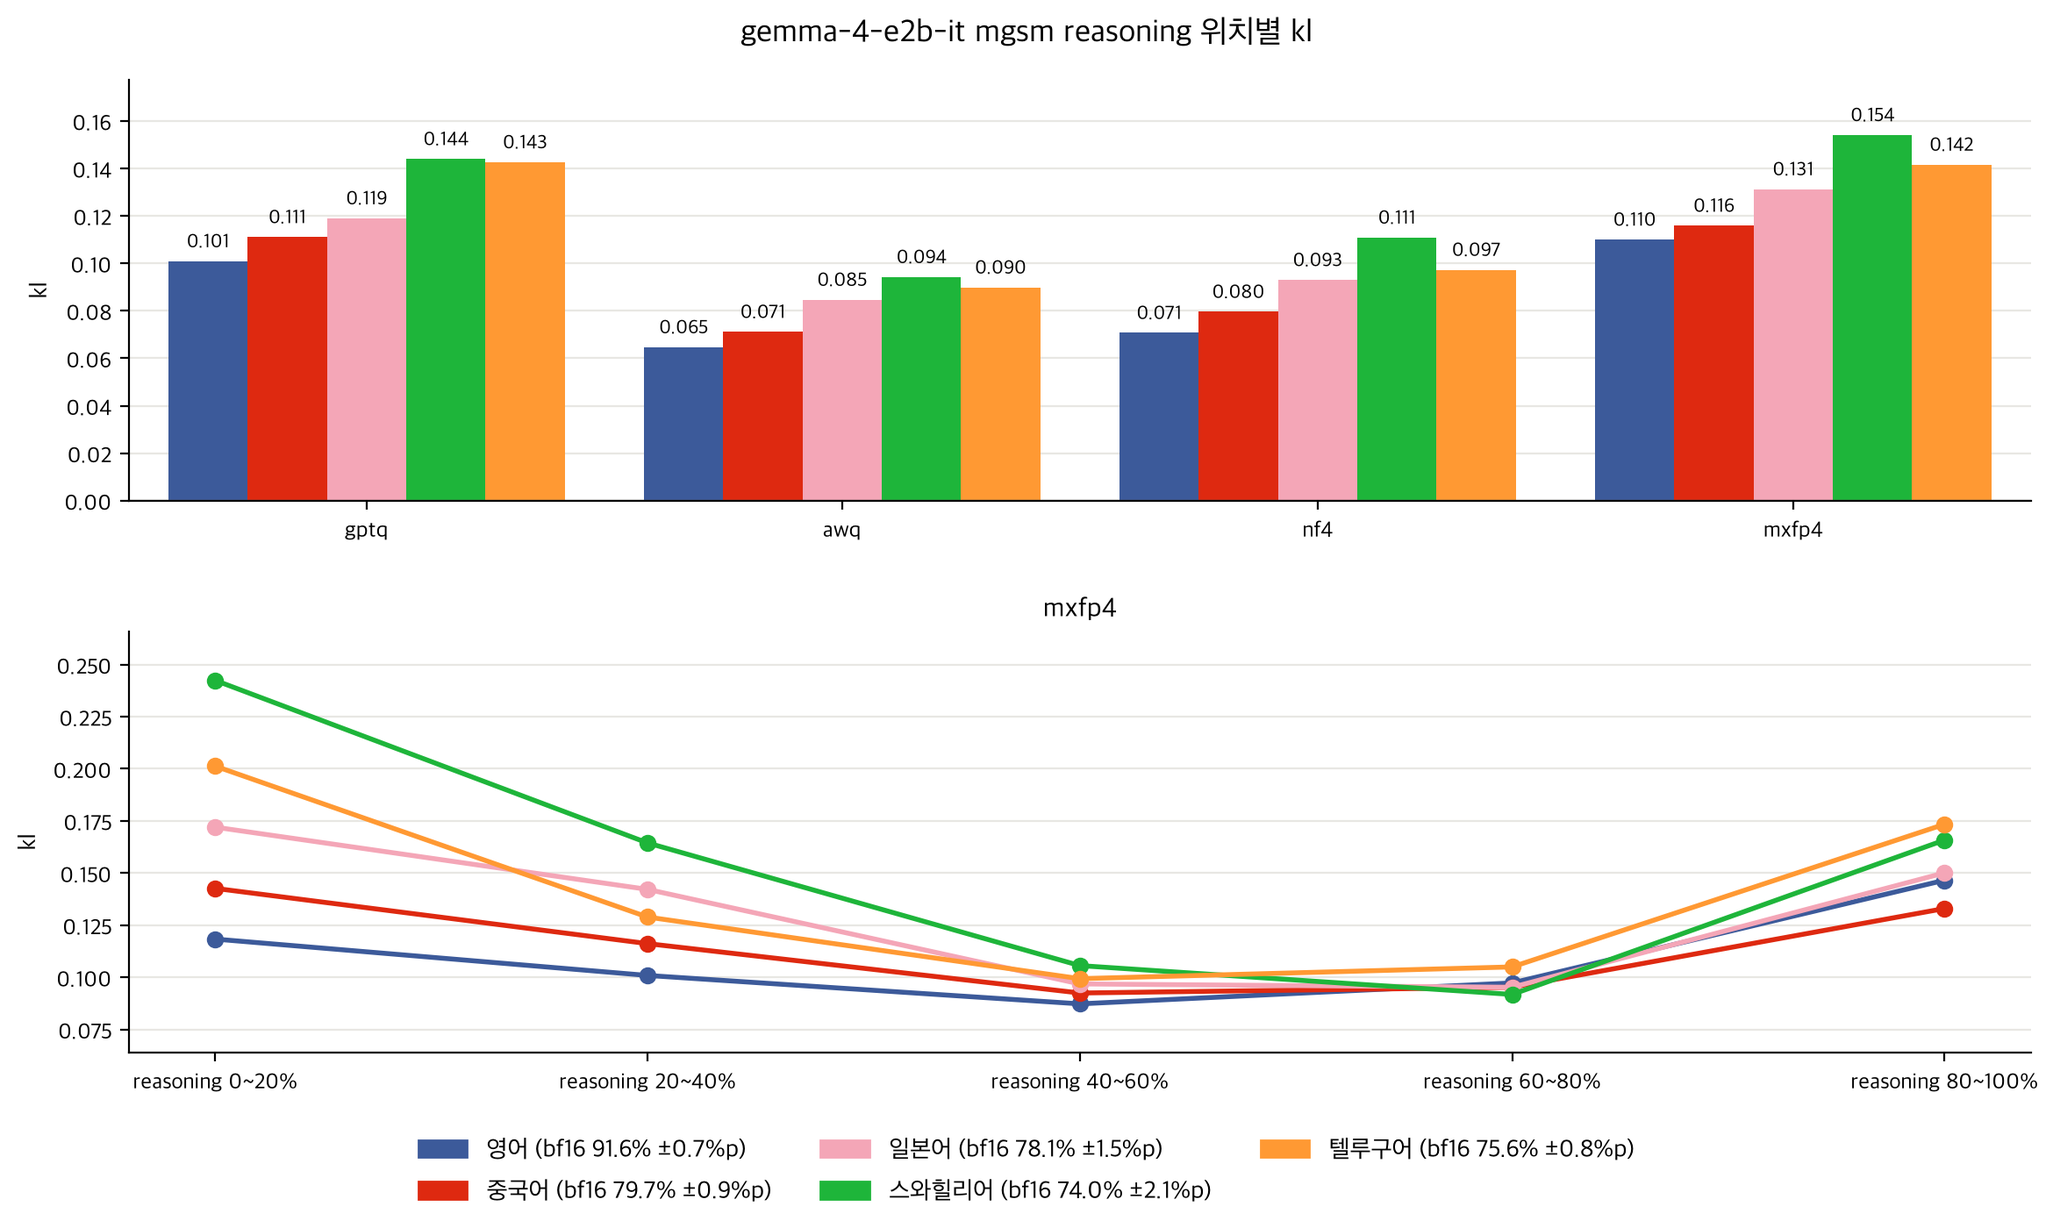
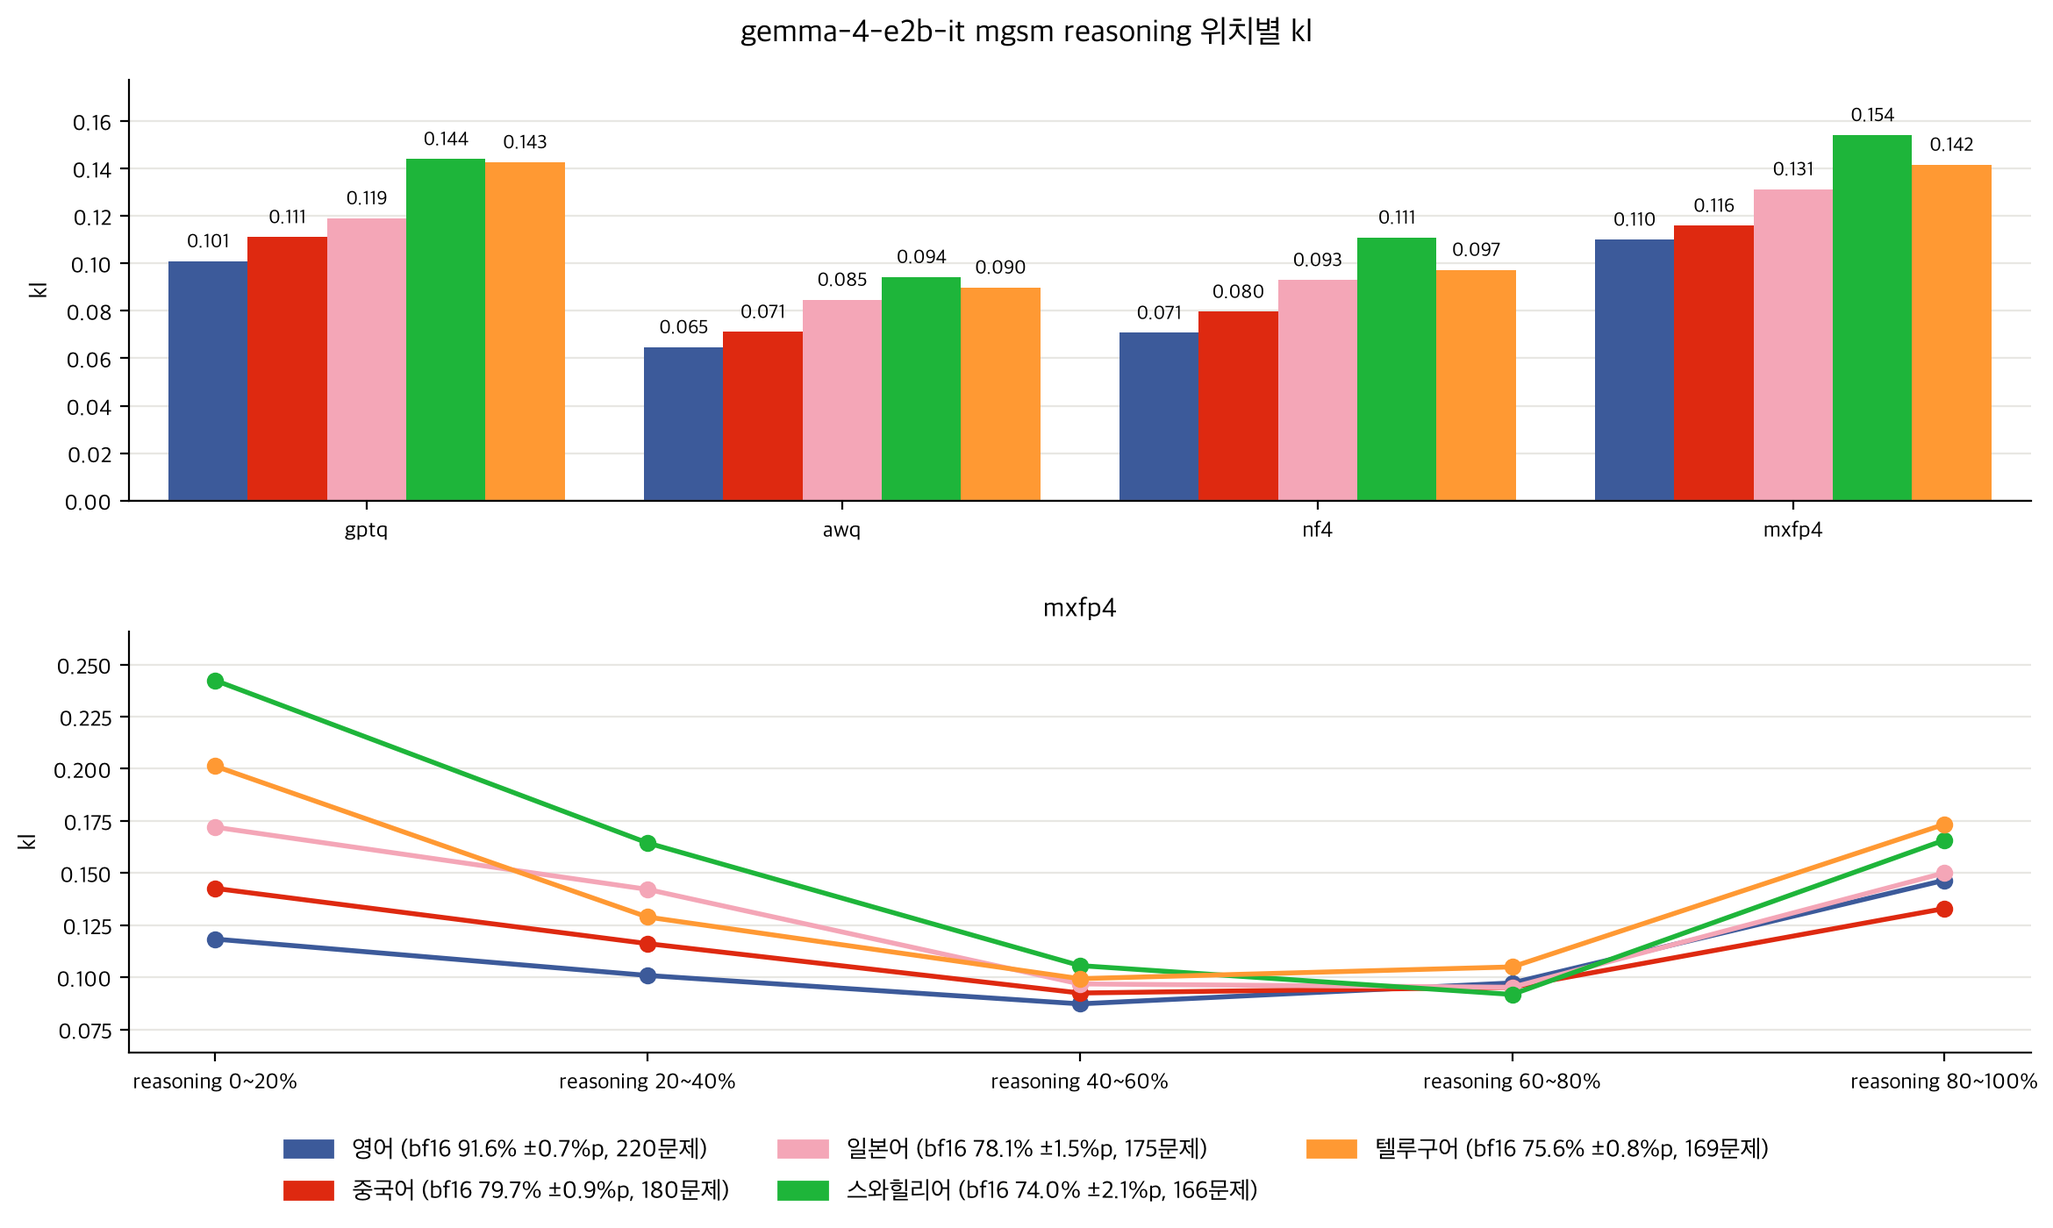
오류 유형 실험 추가

Changed region(s): [[0.1248, 0.9214, 0.8735, 0.9829]]

diff --git a/experiments/error_types.py b/experiments/error_types.py
@@ -1,0 +1,141 @@
+from dataclasses import dataclass
+import re
+import time
+from typing import Literal
+
+from simple_parsing import parse
+
+from utils.dataset import LANGUAGES, load_mgsm
+from utils.evaluation import generate_vllm, load_vllm, split_outputs
+from utils.format import format_duration
+from utils.hub import load_result, load_results, result_exists, save_result
+from utils.metrics import get_bf16_solved_mask
+from utils.paths import make_hub_path, make_result_name
+
+ERROR_TYPES = ["fact", "relation", "target", "doubt", "arithmetic", "other"]
+JUDGE_PROMPT = """A small model solved a math word problem and got it wrong. Find the first line where its reasoning goes wrong, and say what kind of error it is.
+
+Problem in English, which is the true meaning:
+{en_question}
+
+Problem as the model saw it:
+{question}
+
+Correct answer: {answer}
+
+Reasoning of a stronger model that got it right:
+<correct>
+{bf16_reasoning}
+</correct>
+
+Reasoning of the small model that got it wrong, with line numbers:
+<wrong>
+{numbered_reasoning}
+</wrong>
+
+Error types:
+- fact: states a number, unit, word or entity of the problem wrong (e.g. "runs 15 miles" becomes "runs 15 minutes")
+- relation: states a relation between quantities wrong (e.g. "4 more cats than dogs" becomes "4 cats")
+- target: solves for a different quantity than the one asked (e.g. problem asks how many are left, reasoning gives how many were used)
+- doubt: calls a given condition missing, ambiguous or irrelevant, and drops it (e.g. "the price per box is not given", though the problem gives it)
+- arithmetic: sets up the problem right, but computes wrong (e.g. "7 x 8 = 54")
+- other: none of the above
+
+End your answer with exactly these two lines (e.g. for a wrong relation on line 7):
+line: 7
+type: relation"""
+# qwen3.5-27b는 vllm 기본 sequence 수로는 메모리에 안 들어가기 때문에 제한
+JUDGE_MAX_NUM_SEQS = 256
+
+
+@dataclass
+class Config:
+    model_name: str = "google/gemma-4-E2B-it"
+    method: Literal["gptq", "awq", "nf4", "mxfp4"] = "mxfp4"
+    calibration_languages: tuple[Literal["en", "zh", "ja", "sw", "te"], ...] = ("en",)
+    num_bits: int = 4
+    group_size: int = 128
+    num_chunks: int = 128
+    # 판정 모델
+    judge_model_name: str = "Qwen/Qwen3.5-27B"
+    judge_max_generation_len: int = 16384
+    max_generation_len: int = 16384
+    seeds: tuple[int, ...] = (0, 1, 2)
+    bf16_seeds: tuple[int, ...] = (0, 1, 2)
+
+
+def get_mgsm_question(
+    prompt: str,
+) -> str:
+    # instruction과 question 사이 빈 줄로 나눠 question만 추출
+    # 예시) instruction + "\n\n" + question → question
+    return prompt.split("\n\n", 1)[1]
+
+
+def main() -> None:
+    config = parse(Config)
+    experiment_name = "error_types/mgsm"
+    hub_path = make_hub_path(config.method, config.model_name, config.calibration_languages, config.num_bits, config.group_size, config.num_chunks)
+    bf16_hub_path = make_hub_path("bf16", config.model_name)
+    file_names = {seed: make_result_name(config.max_generation_len, seed) for seed in config.seeds}
+
+    # 1. seed마다 hub result에서 빠진 것 확인, 빠진 것이 없으면 종료
+    missing_seeds = [seed for seed, file_name in file_names.items() if not result_exists(experiment_name, hub_path, file_name)]
+    if not missing_seeds:
+        print(f"{hub_path} already evaluated")
+        return
+    problems = load_mgsm(LANGUAGES)
+    bf16_results = load_results("mgsm", bf16_hub_path, config.max_generation_len, config.bf16_seeds)
+
+    # 2. 모든 bf16 seed가 맞힌 문제에서 양자화 모델이 틀린 reasoning 추출
+    problem_indices = {}
+    prompts = []
+    prompt_seeds = []
+    for seed in missing_seeds:
+        bf16_result = load_result("mgsm", bf16_hub_path, file_names[seed])
+        quantized_result = load_result("mgsm", hub_path, file_names[seed])
+        for language in LANGUAGES:
+            bf16_solved_mask = get_bf16_solved_mask(bf16_results, language)
+            problem_indices[seed, language] = [problem_index for problem_index, (solved, correct) in enumerate(zip(bf16_solved_mask, quantized_result[language]["corrects"])) if solved and not correct]
+            for problem_index in problem_indices[seed, language]:
+                prompt, answer = problems[language][problem_index]
+                reasoning = quantized_result[language]["reasonings"][problem_index]
+                prompts.append(JUDGE_PROMPT.format(
+                    en_question=get_mgsm_question(problems["en"][problem_index][0]),
+                    question=get_mgsm_question(prompt),
+                    answer=answer,
+                    bf16_reasoning=bf16_result[language]["reasonings"][problem_index],
+                    numbered_reasoning="\n".join(f"{line_index + 1}: {line}" for line_index, line in enumerate(reasoning.split("\n"))),
+                ))
+                prompt_seeds.append(seed)
+            print(f"{hub_path} seed {seed} {language} wrong {len(problem_indices[seed, language])} of {len(problems[language])}")
+
+    # 3. vllm은 띄우는 데 오래 걸리기 때문에 판정을 모아 한 번에 생성
+    model = load_vllm(config.judge_model_name, config.judge_model_name, JUDGE_MAX_NUM_SEQS)
+    tokenizer = model.get_tokenizer()
+    start_time = time.perf_counter()
+    outputs = generate_vllm(model, config.judge_model_name, prompts, prompt_seeds, config.judge_max_generation_len)
+    print(f"{hub_path} time {format_duration(time.perf_counter() - start_time)}")
+
+    # 4. 판정 끝에서 처음 틀린 줄과 오류 유형을 추출하고 저장
+    start = 0
+    for seed in missing_seeds:
+        result = {}
+        for language in LANGUAGES:
+            end = start + len(problem_indices[seed, language])
+            split = split_outputs(outputs[start:end], tokenizer, config.judge_model_name)
+            error_lines = []
+            error_types = []
+            for response in split["responses"]:
+                lines = re.findall(r"line:\s*(\d+)", response or "")
+                types = re.findall(rf"type:\s*({'|'.join(ERROR_TYPES)})\b", response or "")
+                error_lines.append(int(lines[-1]) if lines else None)
+                error_types.append(types[-1] if types else None)
+            result[language] = {"problem_indices": problem_indices[seed, language], "error_lines": error_lines, "error_types": error_types, **split}
+            start = end
+            print(f"{hub_path} seed {seed} {language} judged {len(error_types)} unparsed {error_types.count(None)}")
+        save_result(experiment_name, hub_path, file_names[seed], result)
+
+
+if __name__ == "__main__":
+    main()

diff --git a/plots/error_types.py b/plots/error_types.py
@@ -1,0 +1,105 @@
+from dataclasses import dataclass
+from typing import Literal
+
+from matplotlib.axes import Axes
+from matplotlib.patches import Patch
+import matplotlib.pyplot as plt
+from matplotlib.ticker import PercentFormatter
+from simple_parsing import parse
+from transformers import AutoTokenizer
+
+from utils.dataset import LANGUAGES
+from utils.hub import load_results
+from utils.metrics import get_bf16_solved_mask
+from utils.paths import make_hub_path
+from utils.plot import LANGUAGE_NAMES, NUM_POSITION_BINS, POSITION_LABELS, get_figsize, get_title, save_figure
+
+ERROR_TYPE_NAMES = {"fact": "사실 오류", "relation": "관계 오류", "target": "목표 오류", "doubt": "조건 무시", "arithmetic": "계산 오류", "other": "기타"}
+ERROR_TYPE_COLORS = {"fact": "#2a78d6", "relation": "#eb6834", "target": "#1baf7a", "doubt": "#eda100", "arithmetic": "#e87ba4", "other": "#a3a29b"}
+# 가장 높은 막대의 이 비율보다 작은 조각은 값 생략
+MIN_LABEL_RATIO = 0.05
+# 막대 위 합이 제목과 겹치지 않게 가장 높은 막대보다 y축을 늘리는 비율
+YMAX_RATIO = 1.15
+
+
+@dataclass
+class Config:
+    model_name: str = "google/gemma-4-E2B-it"
+    method: Literal["gptq", "awq", "nf4", "mxfp4"] = "mxfp4"
+    calibration_languages: tuple[Literal["en", "zh", "ja", "sw", "te"], ...] = ("en",)
+    num_bits: int = 4
+    group_size: int = 128
+    num_chunks: int = 128
+    max_generation_len: int = 16384
+    seeds: tuple[int, ...] = (0, 1, 2)
+    bf16_seeds: tuple[int, ...] = (0, 1, 2)
+
+
+def plot_error_type_bars(
+    ax: Axes,
+    cases: list[str],
+    ratios: list[dict[str, float]],
+) -> None:
+    # case마다 오류 유형을 쌓은 막대를 그리고, 조각 안에 비율, 막대 위에 합 표시
+    max_total = max(sum(case_ratios.values()) for case_ratios in ratios)
+    for x, case_ratios in enumerate(ratios):
+        bottom = 0
+        for error_type, color in ERROR_TYPE_COLORS.items():
+            ratio = case_ratios[error_type]
+            ax.bar(x, ratio, bottom=bottom, width=0.7, color=color, edgecolor="white", linewidth=2)
+            if ratio >= max_total * MIN_LABEL_RATIO:
+                ax.text(x, bottom + ratio / 2, f"{ratio:.1%}", ha="center", va="center", fontsize=8)
+            bottom += ratio
+        ax.annotate(f"{bottom:.1%}", (x, bottom), xytext=(0, 3), textcoords="offset points", ha="center", va="bottom", fontsize=8)
+    ax.set_xticks(range(len(cases)), cases)
+    ax.set_ylim(0, max_total * YMAX_RATIO)
+    ax.yaxis.set_major_formatter(PercentFormatter(1, decimals=0))
+
+
+def main() -> None:
+    config = parse(Config)
+    hub_path = make_hub_path(config.method, config.model_name, config.calibration_languages, config.num_bits, config.group_size, config.num_chunks)
+    results = load_results("error_types/mgsm", hub_path, config.max_generation_len, config.seeds)
+    quantized_results = load_results("mgsm", hub_path, config.max_generation_len, config.seeds)
+    bf16_results = load_results("mgsm", make_hub_path("bf16", config.model_name), config.max_generation_len, config.bf16_seeds)
+    tokenizer = AutoTokenizer.from_pretrained(config.model_name)
+
+    # 1. 언어마다 모든 bf16 seed가 맞힌 문제 중 오류 유형별 비율, 판정을 못 읽으면 기타
+    language_ratios = []
+    num_problems = {}
+    for language in LANGUAGES:
+        num_problems[language] = sum(get_bf16_solved_mask(bf16_results, language))
+        error_types = [error_type or "other" for result in results for error_type in result[language]["error_types"]]
+        language_ratios.append({error_type: error_types.count(error_type) / (num_problems[language] * len(results)) for error_type in ERROR_TYPE_COLORS})
+
+    # 2. 모든 언어의 첫 오류를 그 줄의 reasoning 위치 구간으로 나눠 유형별 비율
+    position_counts = [dict.fromkeys(ERROR_TYPE_COLORS, 0) for _ in range(NUM_POSITION_BINS)]
+    for language in LANGUAGES:
+        for result, quantized_result in zip(results, quantized_results):
+            for problem_index, error_line, error_type in zip(result[language]["problem_indices"], result[language]["error_lines"], result[language]["error_types"]):
+                if error_line is None:
+                    continue
+                lines = quantized_result[language]["reasonings"][problem_index].split("\n")
+                error_token_index = len(tokenizer("\n".join(lines[: error_line - 1]), add_special_tokens=False)["input_ids"])
+                position_index = min(error_token_index * NUM_POSITION_BINS // quantized_result[language]["reasoning_lens"][problem_index], NUM_POSITION_BINS - 1)
+                position_counts[position_index][error_type or "other"] += 1
+    num_errors = sum(sum(counts.values()) for counts in position_counts)
+    position_ratios = [{error_type: count / num_errors for error_type, count in counts.items()} for counts in position_counts]
+
+    # reasoning 위치 눈금 이름이 길어서 언어 막대 묶음 3개 너비
+    fig, axes = plt.subplots(2, 1, figsize=get_figsize(3, 2), layout="constrained")
+    # 예시) "스와힐리어\n166문제"
+    plot_error_type_bars(axes[0], [f"{LANGUAGE_NAMES[language]}\n{num_problems[language]}문제" for language in LANGUAGES], language_ratios)
+    axes[0].set_title(config.method)
+    axes[0].set_ylabel("오류 비율")
+    plot_error_type_bars(axes[1], POSITION_LABELS, position_ratios)
+    axes[1].set_title(f"{config.method} 모든 언어")
+    axes[1].set_ylabel("첫 오류 중 비율")
+
+    fig.suptitle(get_title(config.model_name, "mgsm", "오류 유형"))
+    fig.legend(handles=[Patch(color=color, label=ERROR_TYPE_NAMES[error_type]) for error_type, color in ERROR_TYPE_COLORS.items()], loc="outside lower center", ncol=3)
+    save_figure(fig, config.model_name, "mgsm_error_types")
+
+
+if __name__ == "__main__":
+    main()

diff --git a/plots/position_kl.py b/plots/position_kl.py
@@ -10,11 +10,7 @@ from utils.dataset import LANGUAGES
 from utils.hub import load_results, load_tensors
 from utils.metrics import get_bf16_solved_mask
 from utils.paths import make_hub_path, make_result_name
-from utils.plot import LANGUAGE_COLORS, QUANTIZATION_METHODS, add_language_legend, get_figsize, get_title, plot_language_bars, save_figure
-
-NUM_POSITION_BINS = 5
-# 예시) ["reasoning 0~20%", ..., "reasoning 80~100%"]
-POSITION_LABELS = [f"reasoning {index * 100 // NUM_POSITION_BINS}~{(index + 1) * 100 // NUM_POSITION_BINS}%" for index in range(NUM_POSITION_BINS)]
+from utils.plot import LANGUAGE_COLORS, NUM_POSITION_BINS, POSITION_LABELS, QUANTIZATION_METHODS, add_language_legend, get_figsize, get_title, plot_language_bars, save_figure
 
 
 @dataclass
@@ -51,8 +47,10 @@ def main() -> None:
     # 2. mxfp4는 문제마다 reasoning을 NUM_POSITION_BINS 구간으로 나눠 구간별로도 평균
     kls = {language: [] for language in LANGUAGES}
     position_kls = {}
+    num_problems = {}
     for language in LANGUAGES:
         bf16_solved_mask = get_bf16_solved_mask(bf16_results, language)
+        num_problems[language] = sum(bf16_solved_mask)
         for method, result in results.items():
             problem_kls = split_problems(result[f"{language}/kl"], result[f"{language}/problem_indices"], bf16_solved_mask)
             kls[language].append(torch.stack([kl.mean() for kl in problem_kls]).mean().item())
@@ -70,7 +68,7 @@ def main() -> None:
         ax.margins(y=0.15)
 
     fig.suptitle(get_title(config.model_name, "mgsm", "reasoning 위치별 kl"))
-    add_language_legend(fig, bf16_results)
+    add_language_legend(fig, bf16_results, num_problems)
     save_figure(fig, config.model_name, "mgsm_position_kl")
 
 

diff --git a/utils/plot.py b/utils/plot.py
@@ -20,6 +20,9 @@ BAR_GAP = 1
 CASE_WIDTH = len(LANGUAGES) + BAR_GAP
 PANEL_HEIGHT = 3.0
 PANEL_MARGIN = 0.9
+NUM_POSITION_BINS = 5
+# 예시) ["reasoning 0~20%", ..., "reasoning 80~100%"]
+POSITION_LABELS = [f"reasoning {index * 100 // NUM_POSITION_BINS}~{(index + 1) * 100 // NUM_POSITION_BINS}%" for index in range(NUM_POSITION_BINS)]
 
 plt.rcParams.update({
     "font.family": "Apple SD Gothic Neo",
@@ -114,12 +117,16 @@ def plot_language_bars(
 def add_language_legend(
     fig: Figure,
     bf16_results: list[dict],
+    num_problems: dict[str, int] | None = None,
 ) -> None:
-    # 언어마다 bf16 정확도의 seed 평균과 표준편차 표시
+    # 언어마다 bf16 정확도의 seed 평균과 표준편차 표시, 일부 문제만 쓰면 문제 수도 표시
+    # 예시) "스와힐리어 (bf16 74.0% ±2.1%p, 166문제)"
     handles = []
     for language in LANGUAGES:
         bf16_accuracies = [bf16_result[language]["accuracy"] for bf16_result in bf16_results]
-        handles.append(Patch(color=LANGUAGE_COLORS[language], label=f"{LANGUAGE_NAMES[language]} (bf16 {mean(bf16_accuracies):.1%} ±{stdev(bf16_accuracies):.1%}p)"))
+        label = f"{LANGUAGE_NAMES[language]} (bf16 {mean(bf16_accuracies):.1%} ±{stdev(bf16_accuracies):.1%}p"
+        label += ")" if num_problems is None else f", {num_problems[language]}문제)"
+        handles.append(Patch(color=LANGUAGE_COLORS[language], label=label))
     fig.legend(handles=handles, loc="outside lower center", ncol=3)
 
 

diff --git a/utils/model.py b/utils/model.py
@@ -8,6 +8,7 @@ from transformers import AutoModelForImageTextToText, PreTrainedModel
 # 예시) gemma 출력 "<|channel>thought\n...<channel|>Answer: 72"
 GENERATION_CONFIGS = {
     "Qwen/Qwen3.5-2B": {"sampling": {"temperature": 1.0, "top_p": 0.95, "top_k": 20, "presence_penalty": 1.5}, "reasoning_start": "", "reasoning_end": "</think>"},
+    "Qwen/Qwen3.5-27B": {"sampling": {"temperature": 1.0, "top_p": 0.95, "top_k": 20, "presence_penalty": 1.5}, "reasoning_start": "", "reasoning_end": "</think>"},
     "google/gemma-4-E2B-it": {"sampling": {"temperature": 1.0, "top_p": 0.95, "top_k": 64, "presence_penalty": 0.0}, "reasoning_start": "<|channel>", "reasoning_end": "<channel|>"},
 }
 

diff --git a/utils/evaluation.py b/utils/evaluation.py
@@ -16,8 +16,9 @@ from utils.paths import make_result_name
 def load_vllm(
     model_path: str,
     model_name: str,
+    max_num_seqs: int | None = None,
 ) -> LLM:
-    return LLM(model_path, tokenizer=model_name, dtype="bfloat16", max_model_len=40960, language_model_only=True)
+    return LLM(model_path, tokenizer=model_name, dtype="bfloat16", max_model_len=40960, language_model_only=True, max_num_seqs=max_num_seqs)
 
 
 def get_sampling_params(

diff --git a/EXPERIMENTS.md b/EXPERIMENTS.md
@@ -50,6 +50,25 @@
 - 따라서 스와힐리어와 텔루구어의 손실은 reasoning 앞부분에서 생길 수 있음
 
 ### 오류 유형
+- 스와힐리어와 텔루구어는 영어와의 kl 차이가 reasoning 앞부분에서 가장 큼
+- 그렇다면 양자화 모델이 무엇을 틀리는지, 판정 모델로 대략적인 경향 확인
+- mxfp4가 틀린 reasoning을 영어 question, 정답, bf16 reasoning과 함께 판정 모델에 넣고, 처음 틀린 줄과 오류 유형을 고름
+#### 설정
+- 사실 오류: question의 숫자, 단위, 단어, 이름을 잘못 옮김
+- 관계 오류: 양 사이의 관계를 잘못 이해함
+- 목표 오류: 묻는 것과 다른 양을 구함
+- 조건 무시: 주어진 조건을 없거나, 애매하거나, 상관없다고 보고 버림
+- 계산 오류: 식은 맞지만 계산이 틀림
+- 기타: 위에 없거나 판정을 읽지 못함
+- 양자화 방법은 mxfp4
+- 판정 모델은 qwen3.5-27b
+- 문제는 모든 bf16 seed가 맞히고 mxfp4가 틀린 문제만
+#### 결과
+![](figures/gemma-4-E2B-it/mgsm_error_types.png)
+- 스와힐리어와 텔루구어에서, 오류는 대부분 사실 오류와 관계 오류이고 계산 오류는 적음
+- 첫 오류는 대부분 reasoning 위치 0~60%
+- 사실 오류는 대부분 reasoning 위치 0~20%
+- 따라서 question을 잘못 이해해서 틀린 것일 수 있음
 
 ### understanding 삽입
 
